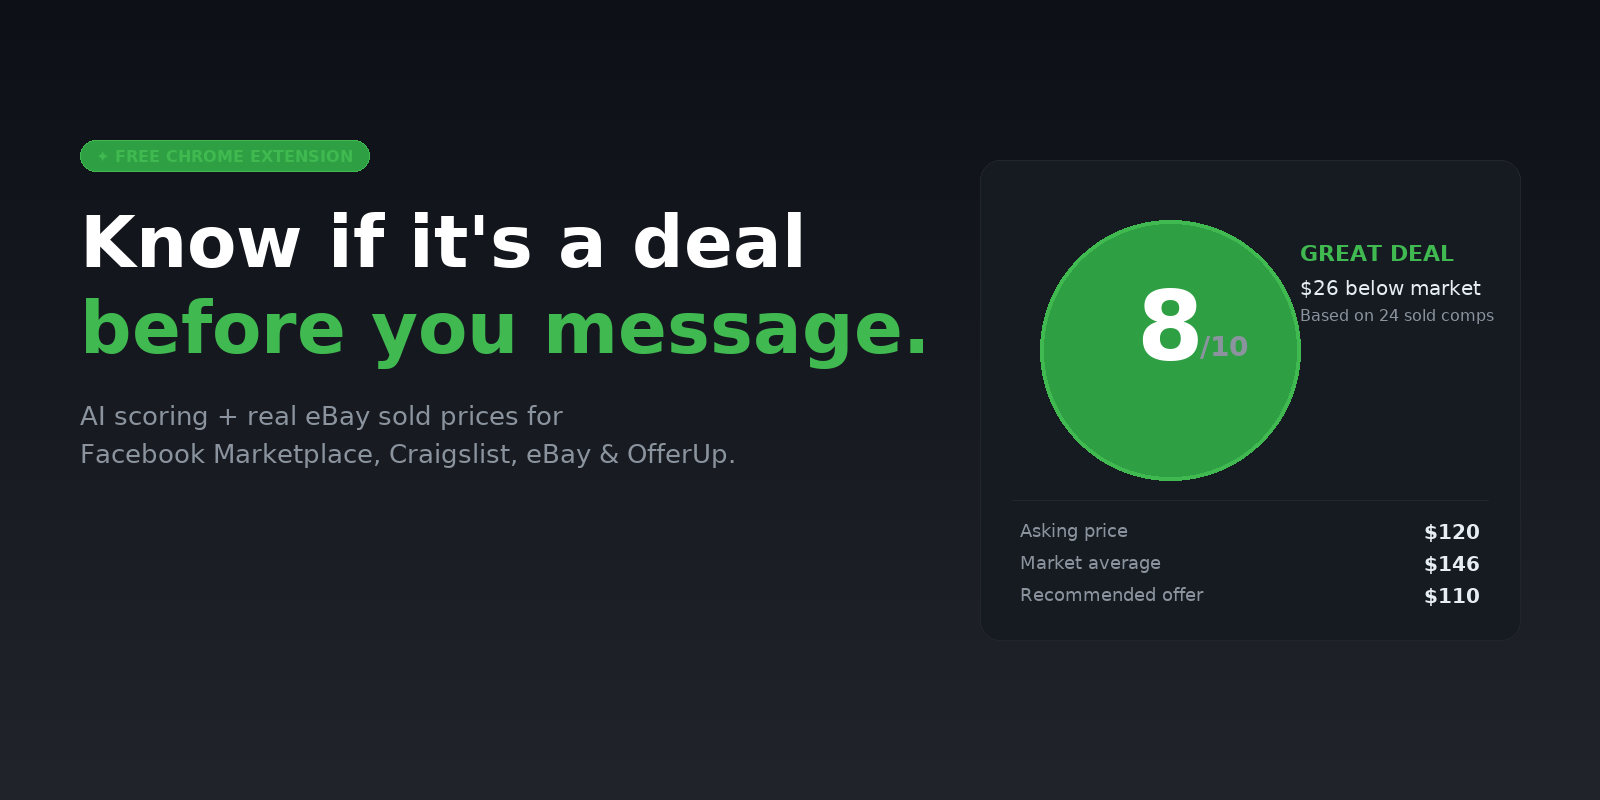
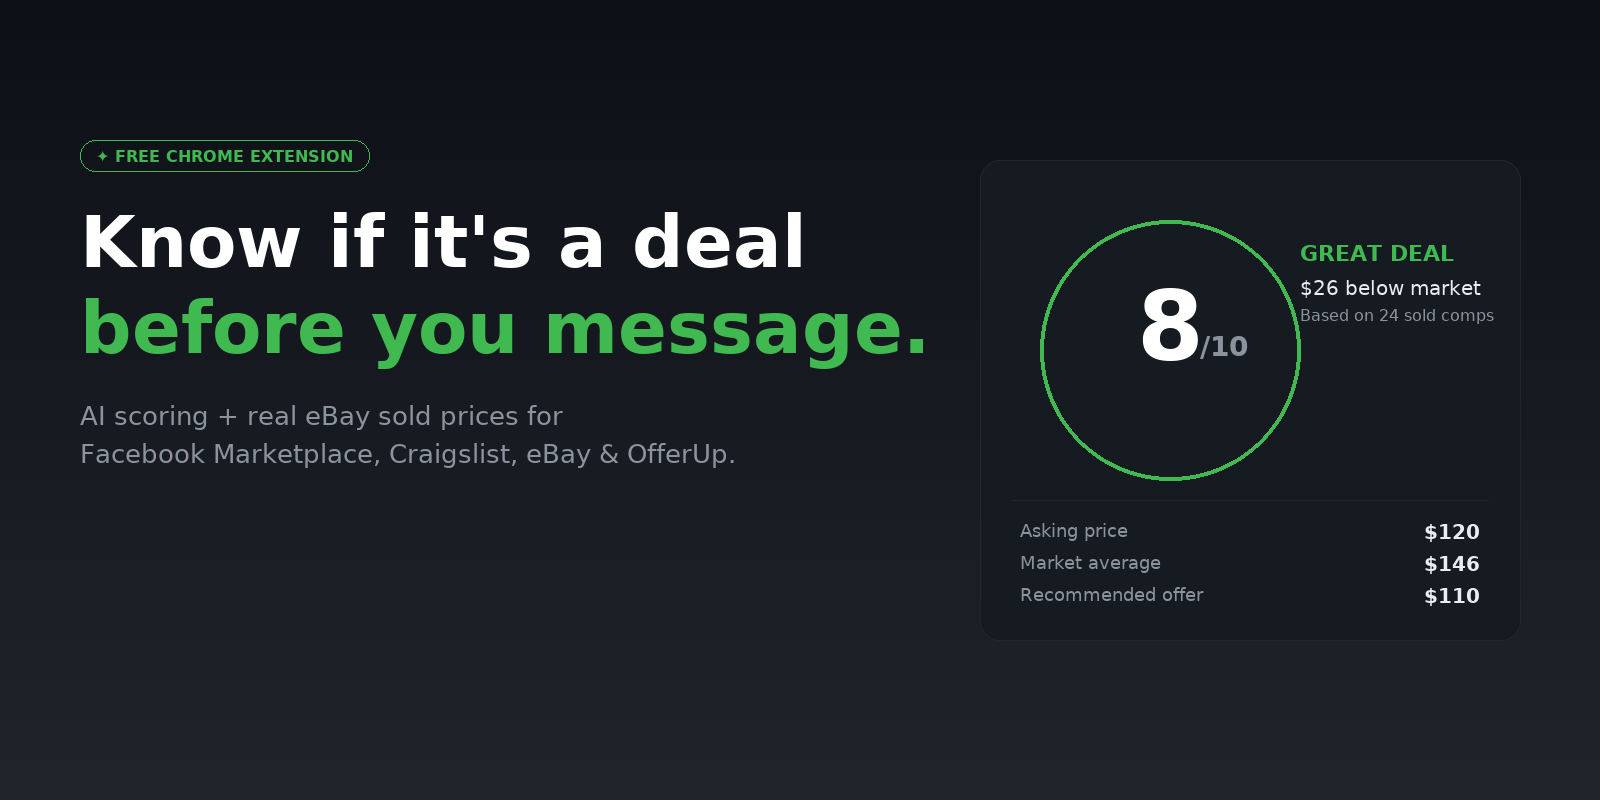
Marketing kit fixups: hyphenate promo tile filename, sync build script
- Rename marketing/cws/promo_tile_440x280.png to promo-tile-440x280.png
  to match deliverable spec exactly.
- Update scripts/build_marketing.py to write to the canonical
  marketing/cws/ + marketing/cws/screenshots/ layout (was previously
  pointing at the obsolete docs/marketing path).

Changed region(s): [[0.625, 0.2812, 0.8125, 0.5938], [0.0312, 0.1562, 0.25, 0.2188]]

diff --git a/scripts/build_marketing.py b/scripts/build_marketing.py
@@ -1,12 +1,22 @@
-"""Build marketing imagery for Deal Scout — CWS assets, hero banner, promo tile, landing screenshots."""
+"""Build marketing imagery for Deal Scout — CWS assets, hero banner, promo tile, landing screenshots.
+
+Output layout (matches the canonical deliverable structure):
+  marketing/cws/promo-tile-440x280.png
+  marketing/cws/screenshots/0[1-5]_*.png
+  docs/images/hero_banner.png
+  docs/images/screenshot_results.png
+  docs/images/screenshot_popup.png
+"""
 import os
 from PIL import Image, ImageDraw, ImageFont
 
 ROOT = os.path.dirname(os.path.dirname(os.path.abspath(__file__)))
 SHOTS = os.path.join(ROOT, "attached_assets")
-CWS = os.path.join(ROOT, "docs/marketing/cws")
+CWS_DIR = os.path.join(ROOT, "marketing/cws")
+CWS_SHOTS = os.path.join(CWS_DIR, "screenshots")
 DOCS_IMG = os.path.join(ROOT, "docs/images")
-os.makedirs(CWS, exist_ok=True)
+os.makedirs(CWS_SHOTS, exist_ok=True)
+os.makedirs(DOCS_IMG, exist_ok=True)
 
 NAVY = (13, 17, 23)
 CARD = (22, 27, 34)
@@ -57,23 +67,17 @@ def build_cws_screenshot(src, headline, sub, out):
     BAND_H = 180
     canvas = Image.new("RGB", (W, H), NAVY)
     d = ImageDraw.Draw(canvas)
-
-    # Headline band (slightly lighter for separation)
     d.rectangle([0, 0, W, BAND_H], fill=CARD)
     d.line([(0, BAND_H), (W, BAND_H)], fill=GREEN, width=3)
 
-    # Headline text — auto-wrap to fit
     f_h = font(44, bold=True)
     f_s = font(22, bold=False)
-    # Wrap headline if needed
     words = headline.split()
-    lines = []
-    cur = ""
-    max_w = W - 120
+    lines, cur = [], ""
     for w in words:
         test = (cur + " " + w).strip()
         tw, _ = text_w(d, test, f_h)
-        if tw <= max_w:
+        if tw <= W - 120:
             cur = test
         else:
             if cur: lines.append(cur)
@@ -81,146 +85,103 @@ def build_cws_screenshot(src, headline, sub, out):
     if cur: lines.append(cur)
 
     line_h = 54
-    total_h = len(lines) * line_h + 28
-    y = (BAND_H - total_h) // 2
+    y = (BAND_H - (len(lines) * line_h + 28)) // 2
     for ln in lines:
         tw, _ = text_w(d, ln, f_h)
         d.text(((W - tw) // 2, y), ln, fill=WHITE, font=f_h)
         y += line_h
-    # Subhead
     tw, _ = text_w(d, sub, f_s)
     d.text(((W - tw) // 2, y + 4), sub, fill=GREEN_BRIGHT, font=f_s)
 
-    # Screenshot under band
     img = Image.open(os.path.join(SHOTS, src)).convert("RGB")
     avail_h = H - BAND_H
-    # Fit width = W, scale to W
     scale = W / img.width
     new_h = int(img.height * scale)
     if new_h > avail_h:
-        # crop top portion to fit
         scale = avail_h / img.height
         new_w = int(img.width * scale)
         img = img.resize((new_w, avail_h), Image.LANCZOS)
-        # center horizontally
-        x = (W - new_w) // 2
-        canvas.paste(img, (x, BAND_H))
+        canvas.paste(img, ((W - new_w) // 2, BAND_H))
     else:
         img = img.resize((W, new_h), Image.LANCZOS)
         canvas.paste(img, (0, BAND_H))
-        # fill remainder with navy (already navy)
 
-    canvas.save(os.path.join(CWS, out), "PNG", optimize=True)
-    print(f"  built {out}")
+    canvas.save(os.path.join(CWS_SHOTS, out), "PNG", optimize=True)
+    print(f"  built marketing/cws/screenshots/{out}")
 
 print("=== CWS screenshots (1280x800) ===")
 for s in SCREENS:
     build_cws_screenshot(*s)
 
-# === Promo tile 440x280 ===
 print("=== Promo tile (440x280) ===")
 def build_promo_tile():
     W, H = 440, 280
     canvas = Image.new("RGB", (W, H), NAVY)
     d = ImageDraw.Draw(canvas)
-    # Subtle gradient via overlay rectangles
     for i in range(H):
         a = int(15 * (i / H))
         d.line([(0, i), (W, i)], fill=(13 + a, 17 + a, 23 + a))
-    # Brand mark
     icon = Image.open(os.path.join(DOCS_IMG, "icon.png")).convert("RGBA")
     icon = icon.resize((56, 56), Image.LANCZOS)
     canvas.paste(icon, (28, 28), icon)
-    # Wordmark
-    f_brand = font(28, bold=True)
-    d.text((96, 38), "Deal Scout", fill=WHITE, font=f_brand)
-    # Headline
-    f_h = font(34, bold=True)
-    d.text((28, 116), "Know if it's a deal", fill=WHITE, font=f_h)
-    d.text((28, 156), "before you message.", fill=GREEN_BRIGHT, font=f_h)
-    # Footer
-    f_s = font(15, bold=False)
-    d.text((28, 220), "Free Chrome extension · FB · eBay · CL · OU", fill=MUTED, font=f_s)
-    # Right corner score badge
+    d.text((96, 38), "Deal Scout", fill=WHITE, font=font(28, bold=True))
+    d.text((28, 116), "Know if it's a deal", fill=WHITE, font=font(34, bold=True))
+    d.text((28, 156), "before you message.", fill=GREEN_BRIGHT, font=font(34, bold=True))
+    d.text((28, 220), "Free Chrome extension · FB · eBay · CL · OU", fill=MUTED, font=font(15, bold=False))
     bx, by, bs = W - 96, 28, 68
-    d.rounded_rectangle([bx, by, bx + bs, by + bs], radius=14, fill=(46, 160, 67), outline=GREEN_BRIGHT, width=2)
-    f_score = font(28, bold=True)
-    f_lbl = font(10, bold=True)
-    d.text((bx + 18, by + 10), "8", fill=WHITE, font=f_score)
+    d.rounded_rectangle([bx, by, bx + bs, by + bs], radius=14, fill=GREEN, outline=GREEN_BRIGHT, width=2)
+    d.text((bx + 18, by + 10), "8", fill=WHITE, font=font(28, bold=True))
     d.text((bx + 30, by + 10), "/10", fill=WHITE, font=font(14, bold=True))
-    d.text((bx + 8, by + 46), "GREAT DEAL", fill=WHITE, font=f_lbl)
-
-    canvas.save(os.path.join(CWS, "promo_tile_440x280.png"), "PNG", optimize=True)
-    print("  built promo_tile_440x280.png")
+    d.text((bx + 8, by + 46), "GREAT DEAL", fill=WHITE, font=font(10, bold=True))
+    canvas.save(os.path.join(CWS_DIR, "promo-tile-440x280.png"), "PNG", optimize=True)
+    print("  built marketing/cws/promo-tile-440x280.png")
 
 build_promo_tile()
 
-# === Hero banner (replace typo) ===
 print("=== Hero banner ===")
 def build_hero_banner():
     W, H = 1600, 800
     canvas = Image.new("RGB", (W, H), NAVY)
     d = ImageDraw.Draw(canvas)
-    # gradient
     for i in range(H):
         a = int(20 * (i / H))
         d.line([(0, i), (W, i)], fill=(13 + a, 17 + a, 23 + a))
 
-    # LEFT: headline + subhead
-    f_h = font(72, bold=True)
-    f_h2 = font(72, bold=True)
-    f_s = font(26, bold=False)
-    f_pill = font(16, bold=True)
-
-    # "Free Chrome Extension" pill
     pill_txt = "✦ FREE CHROME EXTENSION"
+    f_pill = font(16, bold=True)
     pw, ph = text_w(d, pill_txt, f_pill)
     px, py = 80, 140
-    d.rounded_rectangle([px, py, px + pw + 32, py + ph + 18], radius=20,
-                        fill=(46, 160, 67, 40), outline=GREEN_BRIGHT, width=1)
+    d.rounded_rectangle([px, py, px + pw + 32, py + ph + 18], radius=20, outline=GREEN_BRIGHT, width=1)
     d.text((px + 16, py + 7), pill_txt, fill=GREEN_BRIGHT, font=f_pill)
 
+    f_h = font(72, bold=True)
     d.text((80, 200), "Know if it's a deal", fill=WHITE, font=f_h)
-    d.text((80, 286), "before you message.", fill=GREEN_BRIGHT, font=f_h2)
+    d.text((80, 286), "before you message.", fill=GREEN_BRIGHT, font=f_h)
 
-    sub_lines = [
-        "AI scoring + real eBay sold prices for",
-        "Facebook Marketplace, Craigslist, eBay & OfferUp.",
-    ]
+    f_s = font(26, bold=False)
     y = 400
-    for ln in sub_lines:
+    for ln in ["AI scoring + real eBay sold prices for",
+               "Facebook Marketplace, Craigslist, eBay & OfferUp."]:
         d.text((80, y), ln, fill=MUTED, font=f_s)
         y += 38
 
-    # RIGHT: score card mock
     cx, cy, cw, ch = 980, 160, 540, 480
     d.rounded_rectangle([cx, cy, cx + cw, cy + ch], radius=20, fill=CARD, outline=BORDER, width=1)
-
-    # Big score circle
     sx, sy, sr = cx + 60, cy + 60, 130
-    d.ellipse([sx, sy, sx + sr * 2, sy + sr * 2], fill=(46, 160, 67, 60), outline=GREEN_BRIGHT, width=4)
+    d.ellipse([sx, sy, sx + sr * 2, sy + sr * 2], outline=GREEN_BRIGHT, width=4)
     f_big = font(96, bold=True)
-    f_med = font(28, bold=True)
     txt = "8"
     tw, _ = text_w(d, txt, f_big)
     d.text((sx + sr - tw // 2, sy + 50), txt, fill=WHITE, font=f_big)
-    f_slash = font(28, bold=True)
-    d.text((sx + sr + 30, sy + 110), "/10", fill=MUTED, font=f_slash)
+    d.text((sx + sr + 30, sy + 110), "/10", fill=MUTED, font=font(28, bold=True))
 
-    # Label
     d.text((cx + 320, cy + 80), "GREAT DEAL", fill=GREEN_BRIGHT, font=font(22, bold=True))
     d.text((cx + 320, cy + 116), "$26 below market", fill=TEXT, font=font(20, bold=False))
     d.text((cx + 320, cy + 146), "Based on 24 sold comps", fill=MUTED, font=font(16, bold=False))
 
-    # Divider
     d.line([(cx + 32, cy + 340), (cx + cw - 32, cy + 340)], fill=BORDER, width=1)
 
-    # Bottom: detail rows
-    rows = [
-        ("Asking price", "$120"),
-        ("Market average", "$146"),
-        ("Recommended offer", "$110"),
-    ]
+    rows = [("Asking price", "$120"), ("Market average", "$146"), ("Recommended offer", "$110")]
     ry = cy + 360
     for k, v in rows:
         d.text((cx + 40, ry), k, fill=MUTED, font=font(18, bold=False))
@@ -229,23 +190,19 @@ def build_hero_banner():
         ry += 32
 
     canvas.save(os.path.join(DOCS_IMG, "hero_banner.png"), "PNG", optimize=True)
-    print("  built hero_banner.png")
+    print("  built docs/images/hero_banner.png")
 
 build_hero_banner()
 
-# === Replace landing-page screenshots with real captures ===
 print("=== Landing screenshots ===")
 def fit_landing(src, out, target_w=1100):
     img = Image.open(os.path.join(SHOTS, src)).convert("RGB")
     scale = target_w / img.width
-    new_h = int(img.height * scale)
-    img = img.resize((target_w, new_h), Image.LANCZOS)
+    img = img.resize((target_w, int(img.height * scale)), Image.LANCZOS)
     img.save(os.path.join(DOCS_IMG, out), "PNG", optimize=True)
-    print(f"  built {out}")
+    print(f"  built docs/images/{out}")
 
-# Use Tudor watch (Marketplace) as primary results screenshot
 fit_landing("Screenshot_2026-04-17_111154_1776449524121.png", "screenshot_results.png")
-# Use AC unit (OfferUp) as secondary — different platform
 fit_landing("Screenshot_2026-04-17_110832_1776449448293.png", "screenshot_popup.png")
 
 print("DONE")

diff --git a/marketing/cws/listing.md b/marketing/cws/listing.md
@@ -7,7 +7,7 @@ This folder contains the canonical CWS submission copy and assets. Paste fields 
 | `title.txt` | Item name |
 | `short-description.txt` | Summary |
 | `long-description.md` | Detailed description (paste body, drop the markdown bold markers if needed) |
-| `promo_tile_440x280.png` | Small promotional tile (440 × 280) |
+| `promo-tile-440x280.png` | Small promotional tile (440 × 280) |
 | `screenshots/01_fbm_watch.png` | Screenshot 1 (1280 × 800) |
 | `screenshots/02_fbm_guitar.png` | Screenshot 2 |
 | `screenshots/03_ebay_ipad.png` | Screenshot 3 |
